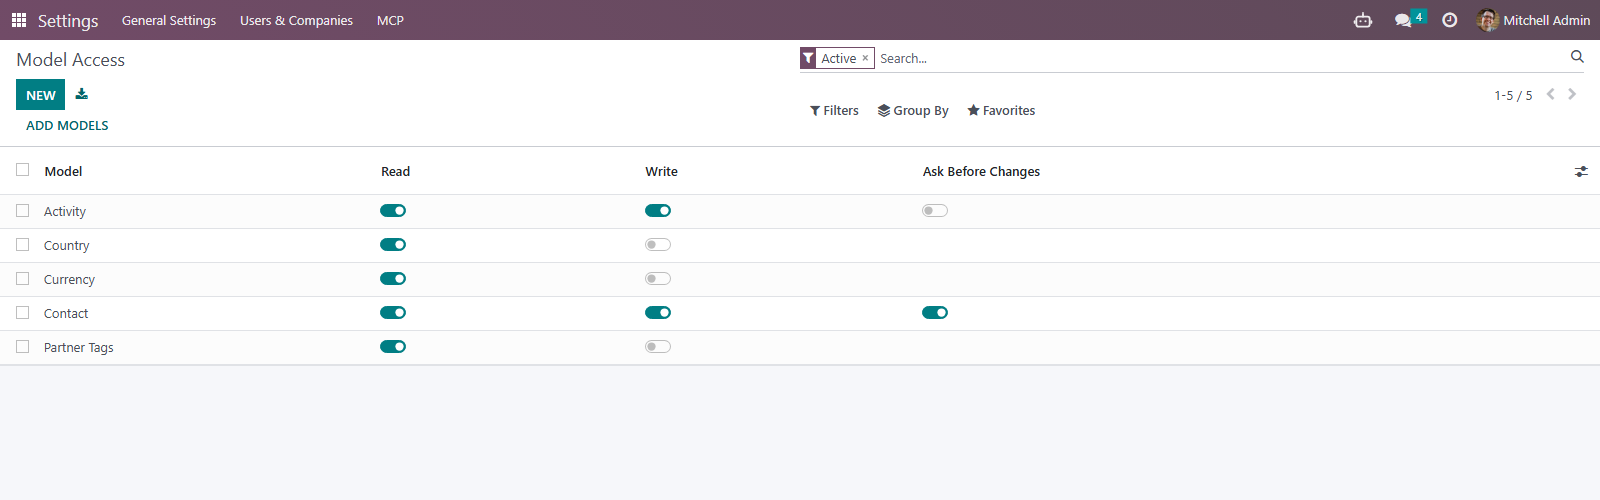
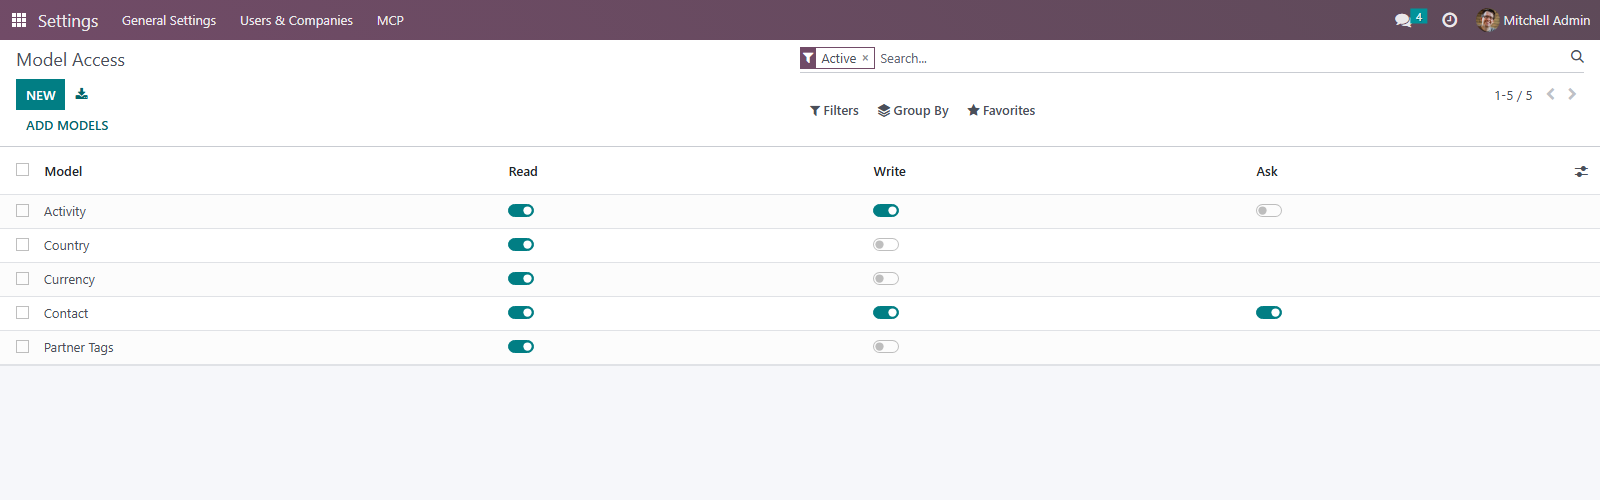
Update muk_mcp_access (5d1a4cab)

diff --git a/muk_mcp_access/static/description/index.html b/muk_mcp_access/static/description/index.html
@@ -82,7 +82,7 @@
 		<div class="text-justify" style="max-width:84%; margin:16px 8%">
 			<h3 class="oe_slogan">Ask Before Changes</h3>
 			<p>
-				Switch on <em>Ask Before Changes</em> for the models where a mistake
+				Switch on <em>Ask</em> for the models where a mistake
 				hurts. A write changes nothing until the user has seen it in the AI
 				client and accepted it. The question names the records and shows the
 				values, and an answer counts for this one call, once.

diff --git a/muk_mcp_access/models/mcp_access.py b/muk_mcp_access/models/mcp_access.py
@@ -48,7 +48,7 @@ class MCPAccessModel(models.Model):
     )
 
     confirm_write = fields.Boolean(
-        string='Ask Before Changes',
+        string='Ask',
         help=(
             'Ask the user in the AI client before a write tool runs on this '
             'model. A client that cannot ask is refused.'

diff --git a/muk_mcp_access/__manifest__.py b/muk_mcp_access/__manifest__.py
@@ -10,7 +10,7 @@
         first model is added only whitelisted models are exposed — the AI
         agent cannot discover or query anything else.
     """,
-    'version': '16.0.1.2.0',
+    'version': '16.0.1.2.1',
     'category': 'Tools/API',
     'license': 'LGPL-3',
     'author': 'MuK IT',

diff --git a/muk_mcp_access/doc/index.rst b/muk_mcp_access/doc/index.rst
@@ -42,7 +42,7 @@ Each entry controls:
   ``search_read``, ``read_records``, ``describe_model``, etc.
 - **Write** — model is writable via ``create_records``,
   ``update_records``, ``delete_records``, and ``call_method``.
-- **Ask Before Changes** — the user is asked in the AI client before
+- **Ask** — the user is asked in the AI client before
   a write tool runs on the model. A client that cannot ask is refused.
 
 Use the *Add Models* button to bulk-enable multiple models at once.

diff --git a/muk_mcp_access/README.md b/muk_mcp_access/README.md
@@ -20,7 +20,7 @@ Each entry controls:
   `search_read`, `read_records`, `describe_model`, etc.
 - **Write** -- model is writable via `create_records`,
   `update_records`, `delete_records`, and `call_method`.
-- **Ask Before Changes** -- the user is asked in the AI client before
+- **Ask** -- the user is asked in the AI client before
   a write tool runs on the model. A client that cannot ask is refused.
 
 Use the _Add Models_ button to bulk-enable multiple models at once.
